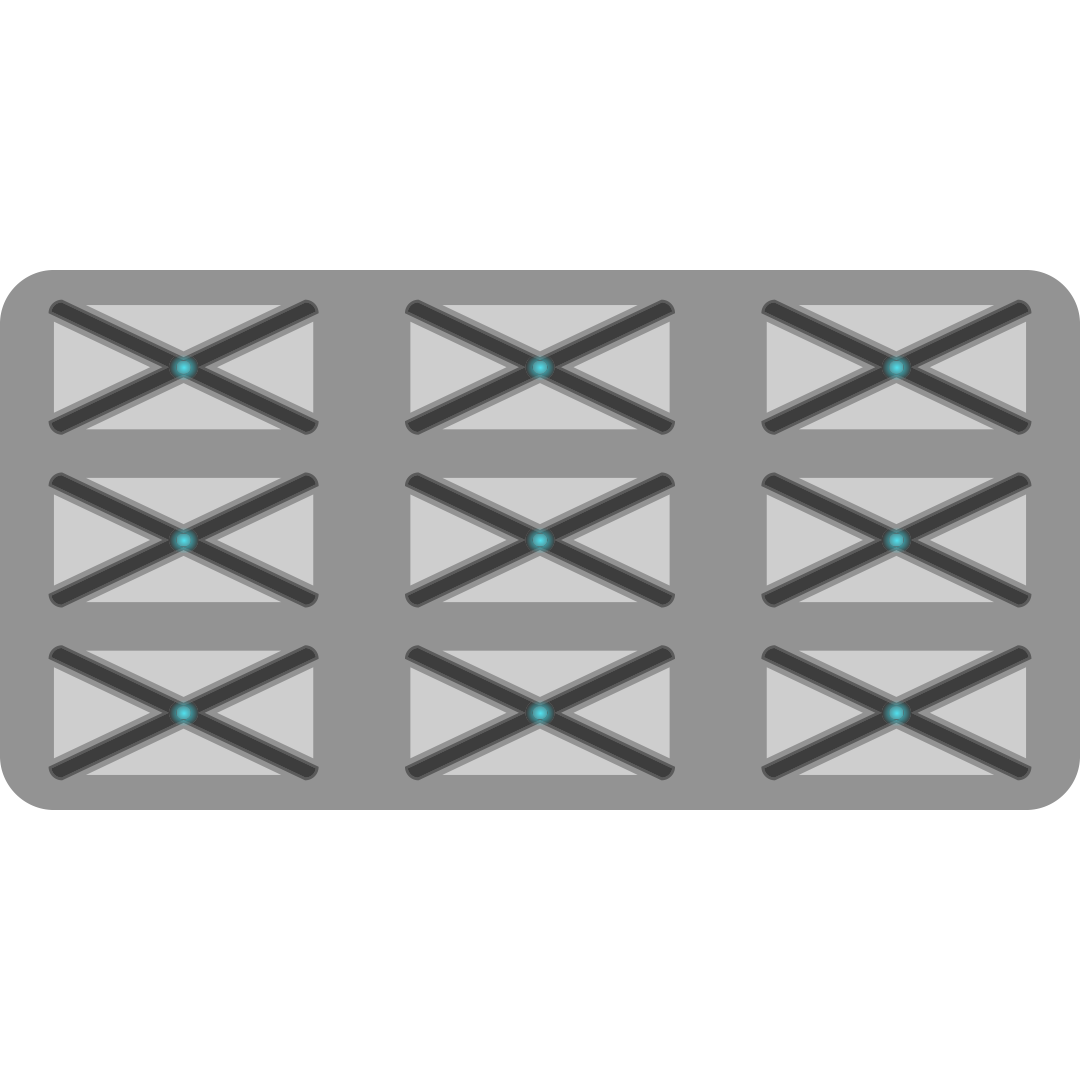
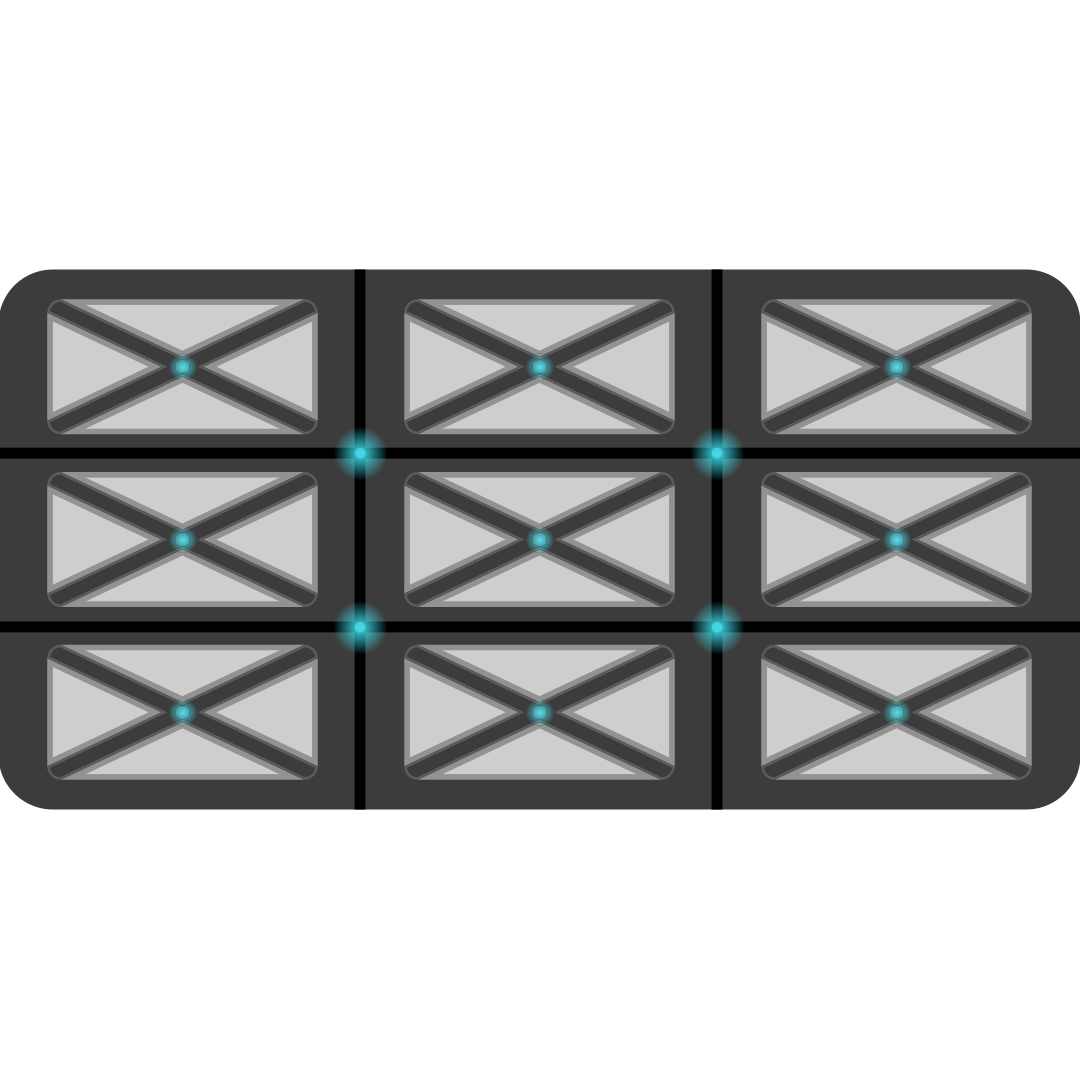
added platforms and ability to change gravity

Changed region(s): [[0.0, 0.2444, 1.0, 0.7639], [0.0917, 0.3361, 0.1528, 0.3667], [0.1833, 0.3056, 0.2139, 0.3361]]

diff --git a/src/game/DoublePlatform.java b/src/game/DoublePlatform.java
@@ -8,6 +8,7 @@ public class DoublePlatform extends StaticBody implements StepListener{
     private static final Shape doubleShape = new PolygonShape(-3.65f,2.0f, 3.75f,2.00f, 4.0f,1.70f, 4.0f,-1.70f, 3.75f,-2.0f, -3.65f,-2.0f, -4.0f,-1.70f, -4.0f,1.70f);
     private static final BodyImage image = new BodyImage("data/level1/platform-double.png",8f);
     private static final BodyImage image2 = new BodyImage("data/level2/sandstone-platform-double.png", 8f);
+    private static final BodyImage image3 = new BodyImage("data/level3/stone-platform-double.png", 8f);
 
     private int time;
     private String direction;
@@ -20,9 +21,10 @@ public class DoublePlatform extends StaticBody implements StepListener{
 
         if (w instanceof LevelOne){
             addImage(image);
-
         } else if (w instanceof LevelTwo){
             addImage(image2);
+        } else if (w instanceof LevelThree){
+            addImage(image3);
         }
 
         //setAlwaysOutline(true);
@@ -34,7 +36,12 @@ public class DoublePlatform extends StaticBody implements StepListener{
         this.time=0;
         this.direction = direction;
 
-        addImage(image2);
+        if (w instanceof LevelTwo){
+            addImage(image2);
+        } else if (w instanceof LevelThree){
+            addImage(image3);
+        }
+
         getWorld().addStepListener(this);
     }
 

diff --git a/src/game/SinglePlatform.java b/src/game/SinglePlatform.java
@@ -2,11 +2,12 @@ package game;
 
 import city.cs.engine.*;
 
-public class SinglePlatform extends StaticBody {
+public class SinglePlatform extends StaticBody implements StepListener {
 
     private static final Shape singleShape = new PolygonShape(-1.65f,2.00f, 1.65f,2.00f, 2.0f,1.65f, 2.0f,-1.65f, 1.65f,-2.00f, -1.65f,-2.00f, -2.00f,-1.65f, -2.00f,1.65f);
     private static final BodyImage image = new BodyImage("data/level1/platform-single.png",4f);
     private static final BodyImage image2 = new BodyImage("data/level2/sandstone-platform-single.png",4f);
+    private static final BodyImage image3 = new BodyImage("data/level3/stone-platform-single.png", 4f);
 
     SinglePlatform(World w){
         super(w,singleShape);
@@ -15,7 +16,19 @@ public class SinglePlatform extends StaticBody {
             addImage(image);
         } else if (w instanceof LevelTwo){
             addImage(image2);
+        } else if (w instanceof LevelThree){
+            addImage(image3);
         }
         //setAlwaysOutline(true);
+    }
+
+    @Override
+    public void preStep(StepEvent stepEvent) {
+
+    }
+
+    @Override
+    public void postStep(StepEvent stepEvent) {
+
     }
 }

diff --git a/src/game/GroundPlatform.java b/src/game/GroundPlatform.java
@@ -10,6 +10,7 @@ public class GroundPlatform extends StaticBody {
     private static final Shape groundShape = new PolygonShape(-14.0f,7.5f, 14.0f,7.5f, 15.0f,6.5f, 15.0f,-6.5f, 14.0f,-7.5f, -14.0f,-7.5f, -15.0f,-6.5f, -15.0f,6.5f);
     private static final BodyImage image = new BodyImage("data/level1/platform-long.png",30f);
     private static final BodyImage image2 = new BodyImage("data/level2/sandstone-platform-long.png", 30f);
+    private static final BodyImage image3 = new BodyImage("data/level3/stone-platform-long.png", 30f);
 
     public GroundPlatform(World w){
         super(w,groundShape);
@@ -18,6 +19,8 @@ public class GroundPlatform extends StaticBody {
             addImage(image);
          } else if (w instanceof LevelTwo){
             addImage(image2);
+        } else if (w instanceof LevelThree){
+            addImage(image3);
         }
         //setAlwaysOutline(true);
     }

diff --git a/src/game/CharacterController.java b/src/game/CharacterController.java
@@ -51,6 +51,12 @@ public class CharacterController implements KeyListener, StepListener {
                     character.shoot();
                 }
             }
+        } else if (code == KeyEvent.VK_SPACE){
+            if (character.getWorld() instanceof LevelThree){
+                character.jump(0);
+                character.setGravityScale(-character.getGravityScale());
+            }
+
         }
     }
 
@@ -62,6 +68,8 @@ public class CharacterController implements KeyListener, StepListener {
         } else if (code == KeyEvent.VK_RIGHT || code == KeyEvent.VK_D) {
             character.stopWalking();
         } else if (code == KeyEvent.VK_UP || code == KeyEvent.VK_W){
+            character.stopWalking();
+        } else if (code == KeyEvent.VK_SPACE){
             character.stopWalking();
         }
     }

diff --git a/src/game/LevelThree.java b/src/game/LevelThree.java
@@ -12,12 +12,24 @@ public class LevelThree extends GameLevel{
     public LevelThree(){
         super();
 
+        //getCharacter().setGravityScale(-getGravity());
+
         setBackground();
+        placePlatforms();
         placePortal();
+
     }
 
     public void setBackground() {
         this.background = new ImageIcon("data/level3/background3.png").getImage();
+    }
+
+    public void placePlatforms(){
+        new WallPlatform(this).setPosition(new Vec2(-16f, 0f));
+        new GroundPlatform(this).setPosition(new Vec2(0f, -17.5f));
+        new GroundPlatform(this).setPosition(new Vec2(0f, 17.5f));
+        new DoublePlatform(this).setPosition(new Vec2(10,1));
+        new SinglePlatform(this).setPosition(new Vec2(-5,2));
     }
 
     public void placePortal(){

diff --git a/src/game/Character.java b/src/game/Character.java
@@ -31,6 +31,7 @@ public class Character extends Walker {
     private float speed;
     private String direction;
 
+
     public Character (World world) {
         super(world, characterShape);
 
